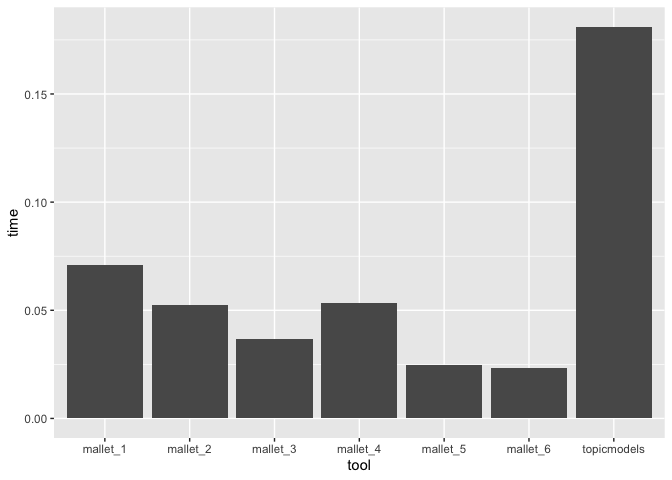
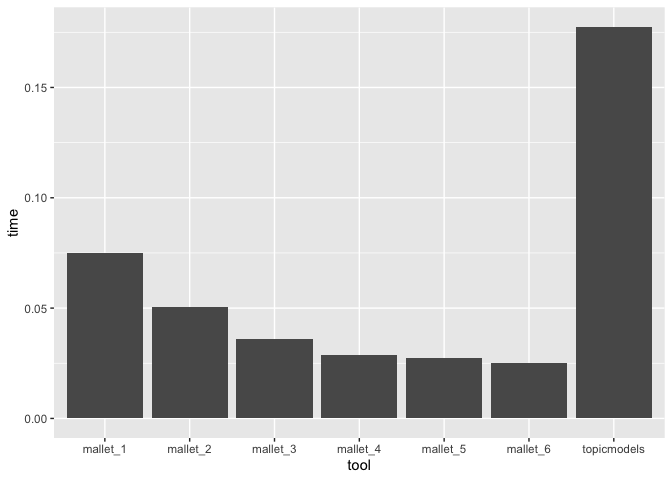
genism workflow and (hidden) benchmark

diff --git a/README.md b/README.md
@@ -108,17 +108,36 @@ tar xzfv Mallet-202108-bin.tar.gz
 rm Mallet-202108-bin.tar.gz
 ```
 
-### Installing rJava
+Using Mallet with the interface offered by biglda requires a working
+installation of the rJava package. Unfortunately, it happens indeed that
+installing rJava causes headaches. A solution that works very often is
+to reconfigure the R-Java intervace running the following command on the
+command line.
 
-``` r
+``` sh
 R CMD javareconf
 ```
 
+It goes beyond this introduction to list all potential solutions for
+rJava problems The prospect that Mallet is a very good and efficient
+tool may serve as a motivation.
+
 ### Installing Gensim
+
+The equivalent to rJava as an interface to Java is the reticulate
+package as an interface for running Python commands from R. The
+reticulate package needs to be installed and loaded.
 
 ``` r
 install.packages("reticulate")
 library(reticulate)
+```
+
+The reticulate package typically runs Python within a Conda environment.
+The easiest way is to use `install_miniconda()` and to install Gensim as
+follows.
+
+``` r
 reticulate::install_miniconda()
 reticulate::conda_install(packages = "gensim")
 ```
@@ -126,6 +145,8 @@ reticulate::conda_install(packages = "gensim")
 ## Using biglda
 
 ### Loading biglda
+
+#### Topic modelling with Mallet
 
 Note that it is not possible to use the R packages “biglda” and “mallet”
 in parallel. If “mallet” is loaded, it will put its Java Archive on the
@@ -144,8 +165,6 @@ library(biglda)
     ## Mallet version: v202108
 
     ## JVM memory allocated: 7.1 Gb
-
-### A sample workflow
 
 When using Mallet for topic modelling, the first step is to prepare a
 so-called “instance list” with information on the input documents. In
@@ -180,7 +199,7 @@ core. Note that using multiple cores speeds up topic modelling - see
 performance assessment below.
 
 ``` r
-BTM$setNumIterations(1000L)
+BTM$setNumIterations(100L)
 BTM$setNumThreads(1L)
 ```
 
@@ -203,7 +222,7 @@ BTM$estimate()
 Sys.time() - started
 ```
 
-    ## Time difference of 31.96075 secs
+    ## Time difference of 4.485914 secs
 
 The package includes optimized functionality for evaluating the topic
 model. Metrics are computed as follows.
@@ -219,7 +238,60 @@ data.frame(
 ```
 
     ##   arun2010    cao2009 deveaud2014
-    ## 1 3380.157 0.02694574    3.064358
+    ## 1 3630.858 0.06176298    1.480718
+
+#### Gensim
+
+To use Gensim for topic modelling, first load the reticulate package and
+import gensim into the Python session.
+
+``` r
+library(reticulate)
+gensim <- reticulate::import("gensim")
+```
+
+The bottleneck for using Gensim for topic modelling from R is the
+interface between the R and the Python session. We assume that a
+`DocumentTermMatrix` has been prepared. The biglda package offers the
+functions `dtm_as_bow()` and `dtm_as_dictionary()` to prepare the input
+data structures required by Gensim topic modelling.
+
+``` r
+bow <- dtm_as_bow(AssociatedPress)
+dict <- dtm_as_dictionary(AssociatedPress)
+```
+
+We use the multicore implementation of LDA topic modelling and use all
+cores but two.
+
+``` r
+threads <- parallel::detectCores() - 2L
+```
+
+This is the genuine Python part - running Gensim.
+
+``` r
+gensim_model <- gensim$models$ldamulticore$LdaModel(
+# gensim_model <- gensim$models$ldamulticore$LdaMulticore(
+  corpus = py$corpus,
+  id2word = py$dictionary,
+  num_topics = 100L,
+  iterations = 100L,
+  per_word_topics = FALSE
+#  workers = as.integer(threads) # required to be integer
+)
+```
+
+Use the `as_LDA()` method to get back data from Pyhton/Gensim to R.
+
+``` r
+lda <- as_LDA(gensim_model, dtm = AssociatedPress)
+```
+
+    ## ℹ Insantiate basic LDA_Gensim S4 class✔ Insantiate basic LDA_Gensim S4 class [125ms]
+    ## ℹ assign dictionary (slot 'terms')✔ assign dictionary (slot 'terms') [17ms]
+    ## ℹ assign word-topic distribution matrix (slot 'beta')✔ assign word-topic distribution matrix (slot 'beta') [16ms]
+    ## ℹ assign topic distribution for each document (slot 'gamma')✔ assign topic distribution for each document (slot 'gamma') [12s]
 
 ## Performance
 
@@ -242,7 +314,7 @@ data("AssociatedPress", package = "topicmodels")
 report <- list()
 ```
 
-We then fit topic models with Mallet with a varying number of cores.
+We then fit topic models with Mallet using a increasing number of cores.
 
 ``` r
 library(biglda)
@@ -261,8 +333,9 @@ for (cores in 1L:n_cores_max){
   
   BTM$estimate()
   
-  report[[cores]] <- data.frame(
-    tool = sprintf("mallet_%d", cores),
+  run <- sprintf("mallet_%d", cores)
+  report[[as.character(cores)]] <- data.frame(
+    tool = run,
     time = as.numeric(difftime(Sys.time(), mallet_started, units = "mins"))
   )
 }
@@ -283,7 +356,7 @@ lda_model <- LDA(
   control = list(iter = iterations)
 )
 
-report[[n_cores_max + 1]] <- data.frame(
+report[["topicmodels"]] <- data.frame(
   tool = "topicmodels",
   time = difftime(Sys.time(), topicmodels_started, units = "mins")
 )
@@ -291,25 +364,25 @@ report[[n_cores_max + 1]] <- data.frame(
 
 The following chart reports the elapsed time for LDA topic modelling.
 
-``` r
-library(ggplot2)
-ggplot(data = do.call(rbind, report), aes(x = tool, y = time)) +
-  geom_bar(stat="identity")
-```
-
 ![](README_files/figure-gfm/benchmark_plot-1.png)<!-- -->
 
-So topic modelling with Mallet is fast and even more so with several
-cores. So for large data, biglda can make the difference, whether it
-takes a week or a day for fit the topic model.
+These are the takeaways from the benchmarks:
 
-Note that we did not an evaluation of `stm::stm()` (structural topic
-model) here, which has become a widely used state-of-the-art algorithm.
-The stm package offers very rich analytical possibilities and the
-ability to include document metadata goes significantly beyond classic
-LDA topic modelling. But `stm::stm()` is significantly slower than
-`topicmodels::LDA()`. The stm package does not address big data
-scenarios very well, this is the specialization of the biglda package.
+- Topic modelling with Mallet is fast and even more so with several
+  cores. So for large data, biglda can make the difference, whether it
+  takes a week or a day for fit the topic model.
+
+- Note that we did not an evaluation of `stm::stm()` (structural topic
+  model) here, which has become a widely used state-of-the-art
+  algorithm. The stm package offers very rich analytical possibilities
+  and the ability to include document metadata goes significantly beyond
+  classic LDA topic modelling. But `stm::stm()` is significantly slower
+  than `topicmodels::LDA()`. The stm package does not address big data
+  scenarios very well, this is the specialization of the biglda package.
+
+- The great reputation of Gensim notwithstanding, benchmarks for Gensim
+  are significantly weaker than what we see for mallet and topicmodels.
+  The reticulate interface may be the bottleneck: We do not yet know.
 
 ### Metrics
 
